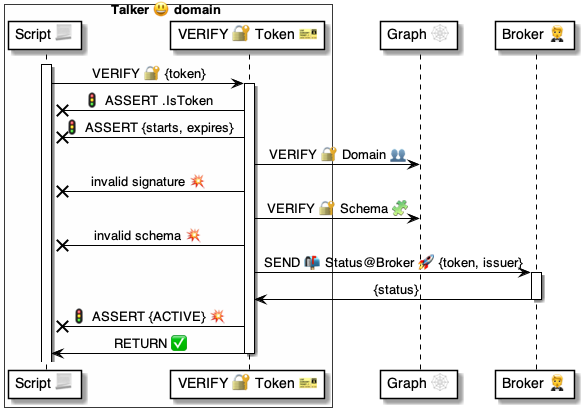
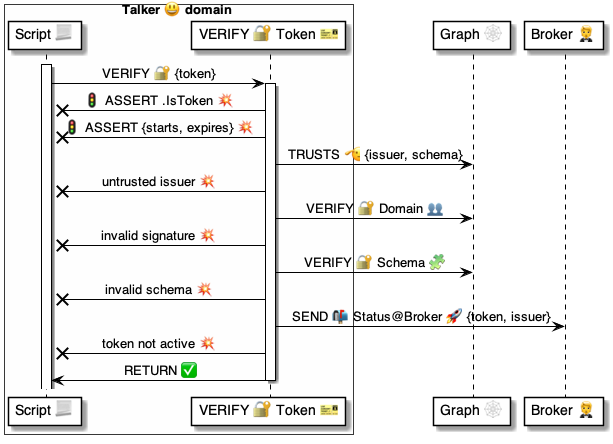
.

diff --git a/4 ⚙ Solution/37 Scripts 📃/📃 Commands ⌘/⌘ for messages 📨/VERIFY 🔐/VERIFY Token 🎫/🔐 VERIFY Token 📃 script.md b/4 ⚙ Solution/37 Scripts 📃/📃 Commands ⌘/⌘ for messages 📨/VERIFY 🔐/VERIFY Token 🎫/🔐 VERIFY Token 📃 script.md
@@ -16,7 +16,6 @@
 ```yaml
 - RUN .VERIFY-Token:
     Token: {...}
-    Checks: ACTIVE, TRUSTED
 ```
 
 <br/>
@@ -30,10 +29,15 @@
 - ASSERT: $Token.IsToken
 
 # Assert that we're in the validity period
-- IF $Active:
-    - ASSERT $Token:
-        Starts.IsPast:      # Is currently activate
-        Expires.IsFuture:   # Has not expired
+- ASSERT $Token:
+    Starts.IsPast:      # Is currently activate
+    Expires.IsFuture:   # Has not expired
+
+# Check if the issuer is trusted
+- TRUSTS:
+    Trusted: $Token.Issuer
+    Schema: $Token.Schema
+    Role: VAULT
 
 # Verify the domain signature
 - RUN .VERIFY-Domain:
@@ -43,22 +47,21 @@
     Domain: $Token.Issuer
     Signature: $Token.Signature
 
-# Get the schema definition
+# Verify the schema
 - RUN .VERIFY-Schema:
     Data: $Token.Context 
     Schema: $Token.Schema
 
 # Check that the status on the broker
-- IF $Active:
-    - SEND >> $status:
-        Header:
-            To: $Token.Broker
-            Subject: Status@Broker
-        Body:
-            Token: $Token.Token
-            Issuer: $Token.Issuer
-    - ASSERT: 
-        $status: ACTIVE
+- SEND >> $status:
+    Header:
+        To: $Token.Broker
+        Subject: Status@Broker
+    Body:
+        Token: $Token.Token
+        Issuer: $Token.Issuer
+- ASSERT: 
+    $status.Status: ACTIVE
 ```
 
 Uses||
